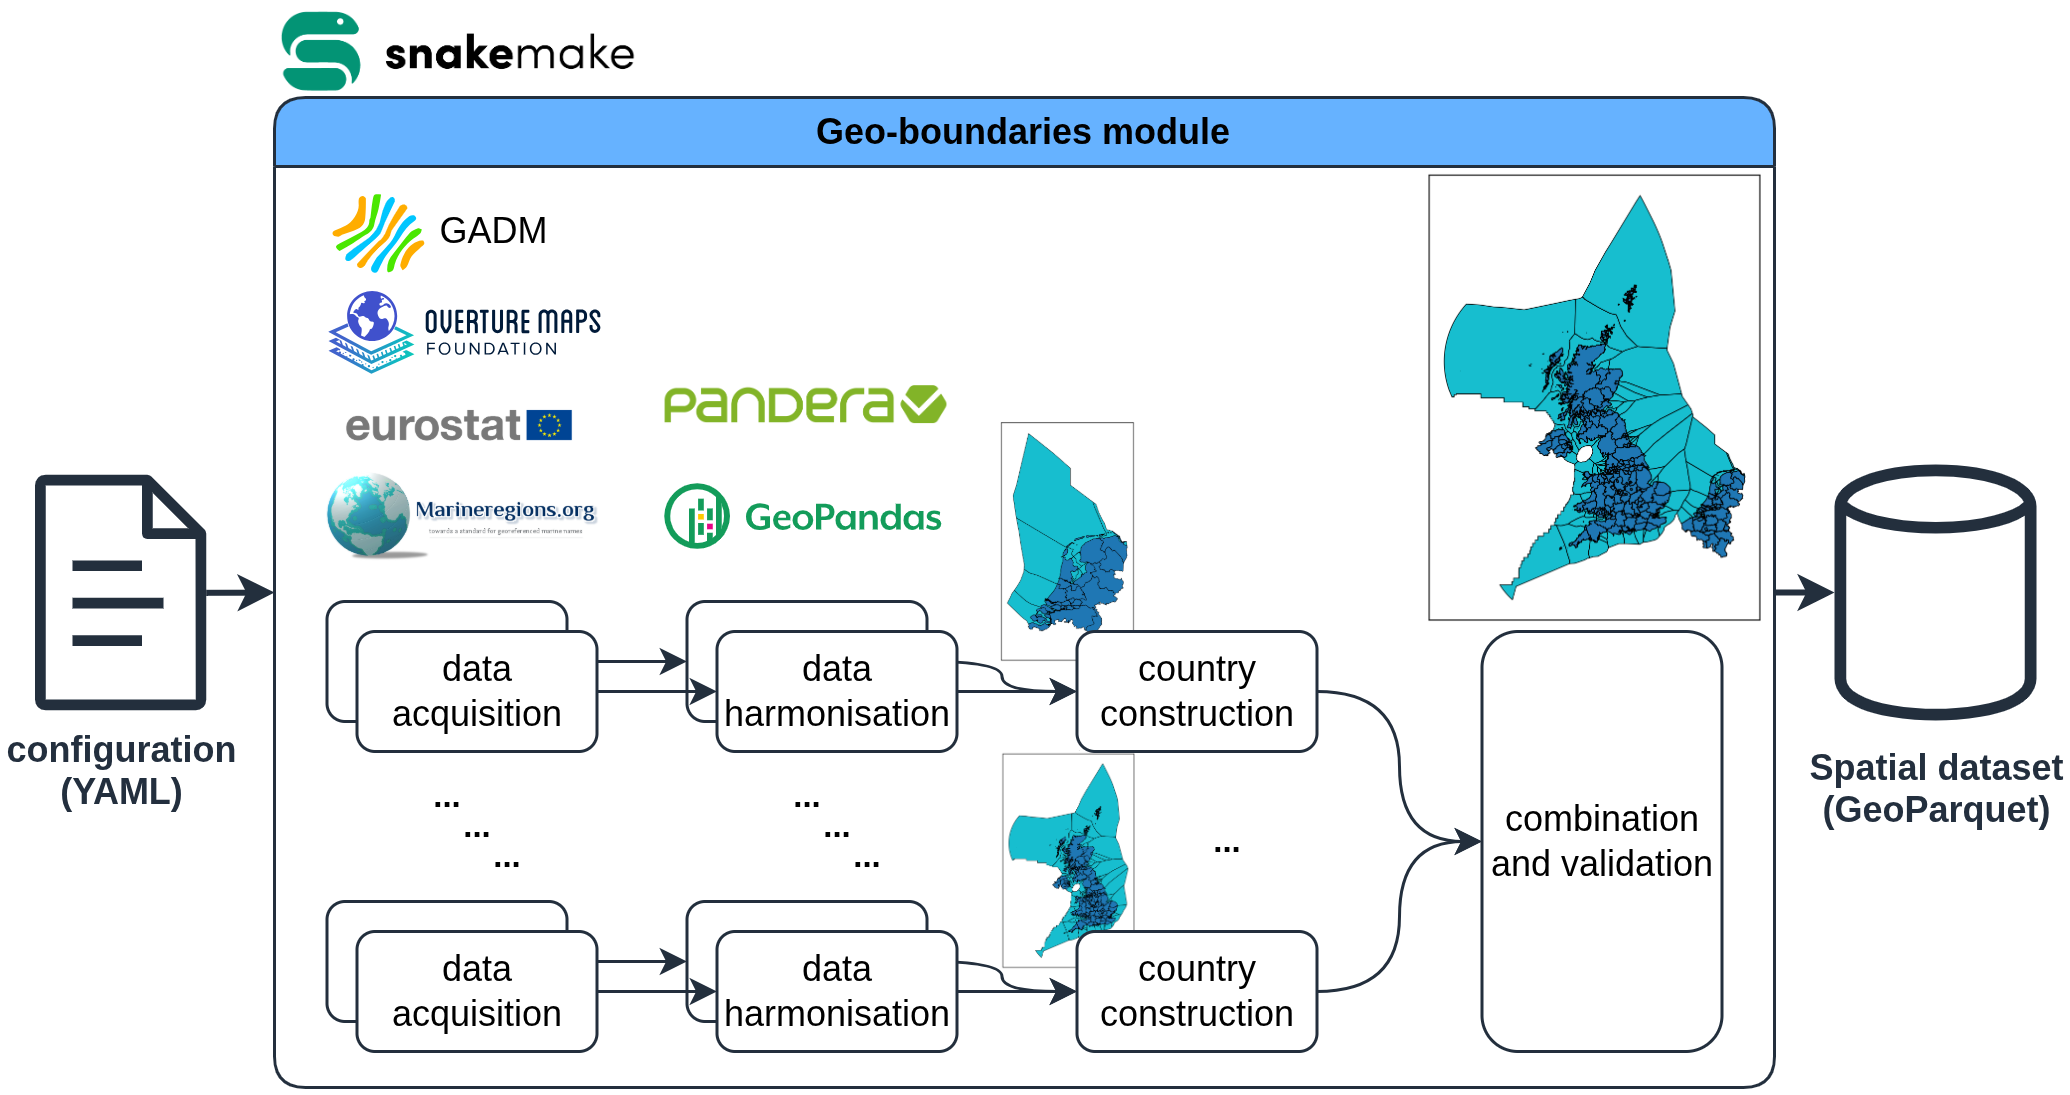
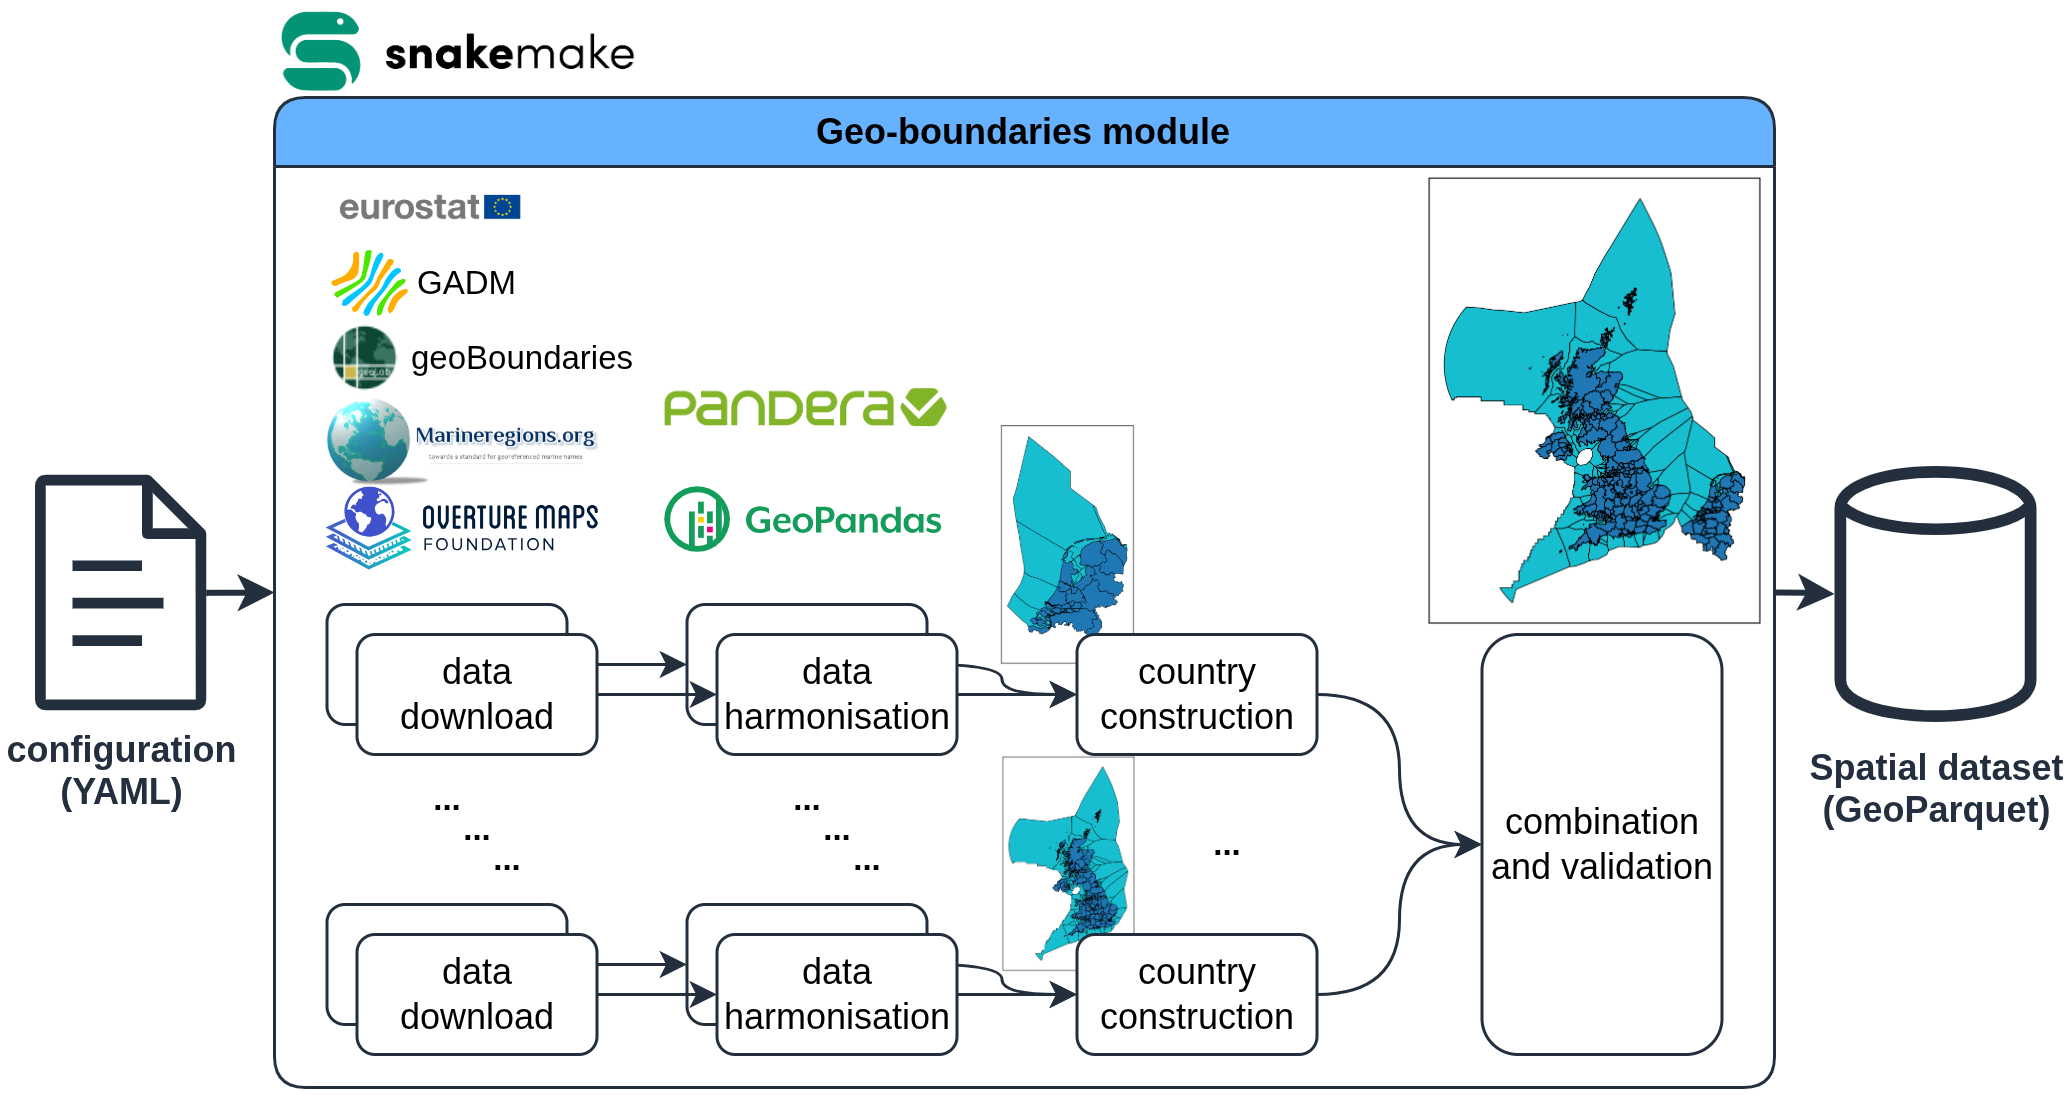
update documentation

diff --git a/README.md b/README.md
@@ -22,15 +22,15 @@ and the `snakemake` [documentation](https://snakemake.readthedocs.io/en/stable/s
 Data processing steps:
 
 <p align="center">
-  <img src="./figures/architecture.drawio.png" width="100%">
+  <img src="./figures/architecture.drawio.png" width="90%">
 </p>
 
 
 1. The configuration file is read to identify the datasets to use as well as the specific countries and regional aggregation (`subtype` in the configuration) to process.
-    - Country area data: [GADM](https://gadm.org/), [Overture Maps](https://overturemaps.org/) and [NUTS](https://ec.europa.eu/eurostat/web/gisco/geodata/statistical-units/territorial-units-statistics) divisions are supported.
-    - Exclusive Economic Zone (EEZ) data: [Marine regions](https://www.marineregions.org/).
+    - Country landmass data: [eurostat NUTS](https://ec.europa.eu/eurostat/web/gisco/geodata/statistical-units/territorial-units-statistics), [GADM](https://gadm.org/), [geoBoundaries](https://www.geoboundaries.org/), and [Overture Maps](https://overturemaps.org/) are supported.
+    - Exclusive Economic Zone (EEZ) data: [MarineRegions.org](https://www.marineregions.org/).
 2. Individual country files are downloaded and harmonised to fit a standardised schema.
-    - Contested regions are removed at this stage.
+    - If identified, contested regions are removed at this stage.
     - Land is clipped using maritime Exclusive Economic Zones (EEZ).
     - Optionally, a Voronoi algorithm is run to separate EEZ areas to fit subnational regions.
 3. Each country file is combined and then clipped using its neighbours to minimise overlapping polygons.
@@ -40,7 +40,7 @@ Data processing steps:
 > Use the references at the bottom of this page for more details.
 
 > [!CAUTION]
-> To increase the replicability of your workflow, we recommend using NUTS and GADM as sources whenever possible as they are more stable than Overture Maps.
+> To increase the replicability of your workflow, we recommend using NUTS and geoBoundaries as sources whenever possible as they have more stable hosting methods than Overture Maps and GADM.
 
 ## Configuration
 <!-- Please describe how to configure this module below -->
@@ -86,11 +86,15 @@ snakemake --use-conda --cores 2  # run the workflow!
 This module is based on the following research and datasets.
 We encourage users to cite both the original source and our workflow.
 
+- eurostat NUTS (various years). Nomenclature of territorial units for statistics (NUTS).
+    - License: reuse is authorised provided the source is acknowledged. <https://ec.europa.eu/eurostat/statistics-explained/index.php?title=Copyright/licence_policy>
 - GADM 4.1. (2018). Global Administrative Areas (GADM).
     - License: GADM data is freely available for academic and non-commercial use. <https://gadm.org/license.html>.
-- NUTS (various years). Nomenclature of territorial units for statistics (NUTS).
-    - License: reuse is authorised provided the source is acknowledged. <https://ec.europa.eu/eurostat/statistics-explained/index.php?title=Copyright/licence_policy>
-- Overture Maps Divisions database (most recent version). Overture Maps Foundation.
-    - License: ODbL. See <https://docs.overturemaps.org/attribution/> and <https://opendatacommons.org/licenses/odbl/summary/> for details.
+- geoBoundaries (most recent version). William & Mary geoLab.
+    - License: varies per dataset type (from CC-BY 4.0 compliant to non-commercial use only).
+    Consult their documentation for details.
+    <https://www.geoboundaries.org/>.
 - Marine Regions World EEZ v12 (2023). Flanders Marine Institute (MarineRegions.org).
     - License: CC-By. See <https://www.marineregions.org/disclaimer.php>.
+- Overture Maps Divisions database (most recent version). Overture Maps Foundation.
+    - License: ODbL. See <https://docs.overturemaps.org/attribution/> and <https://opendatacommons.org/licenses/odbl/summary/> for details.